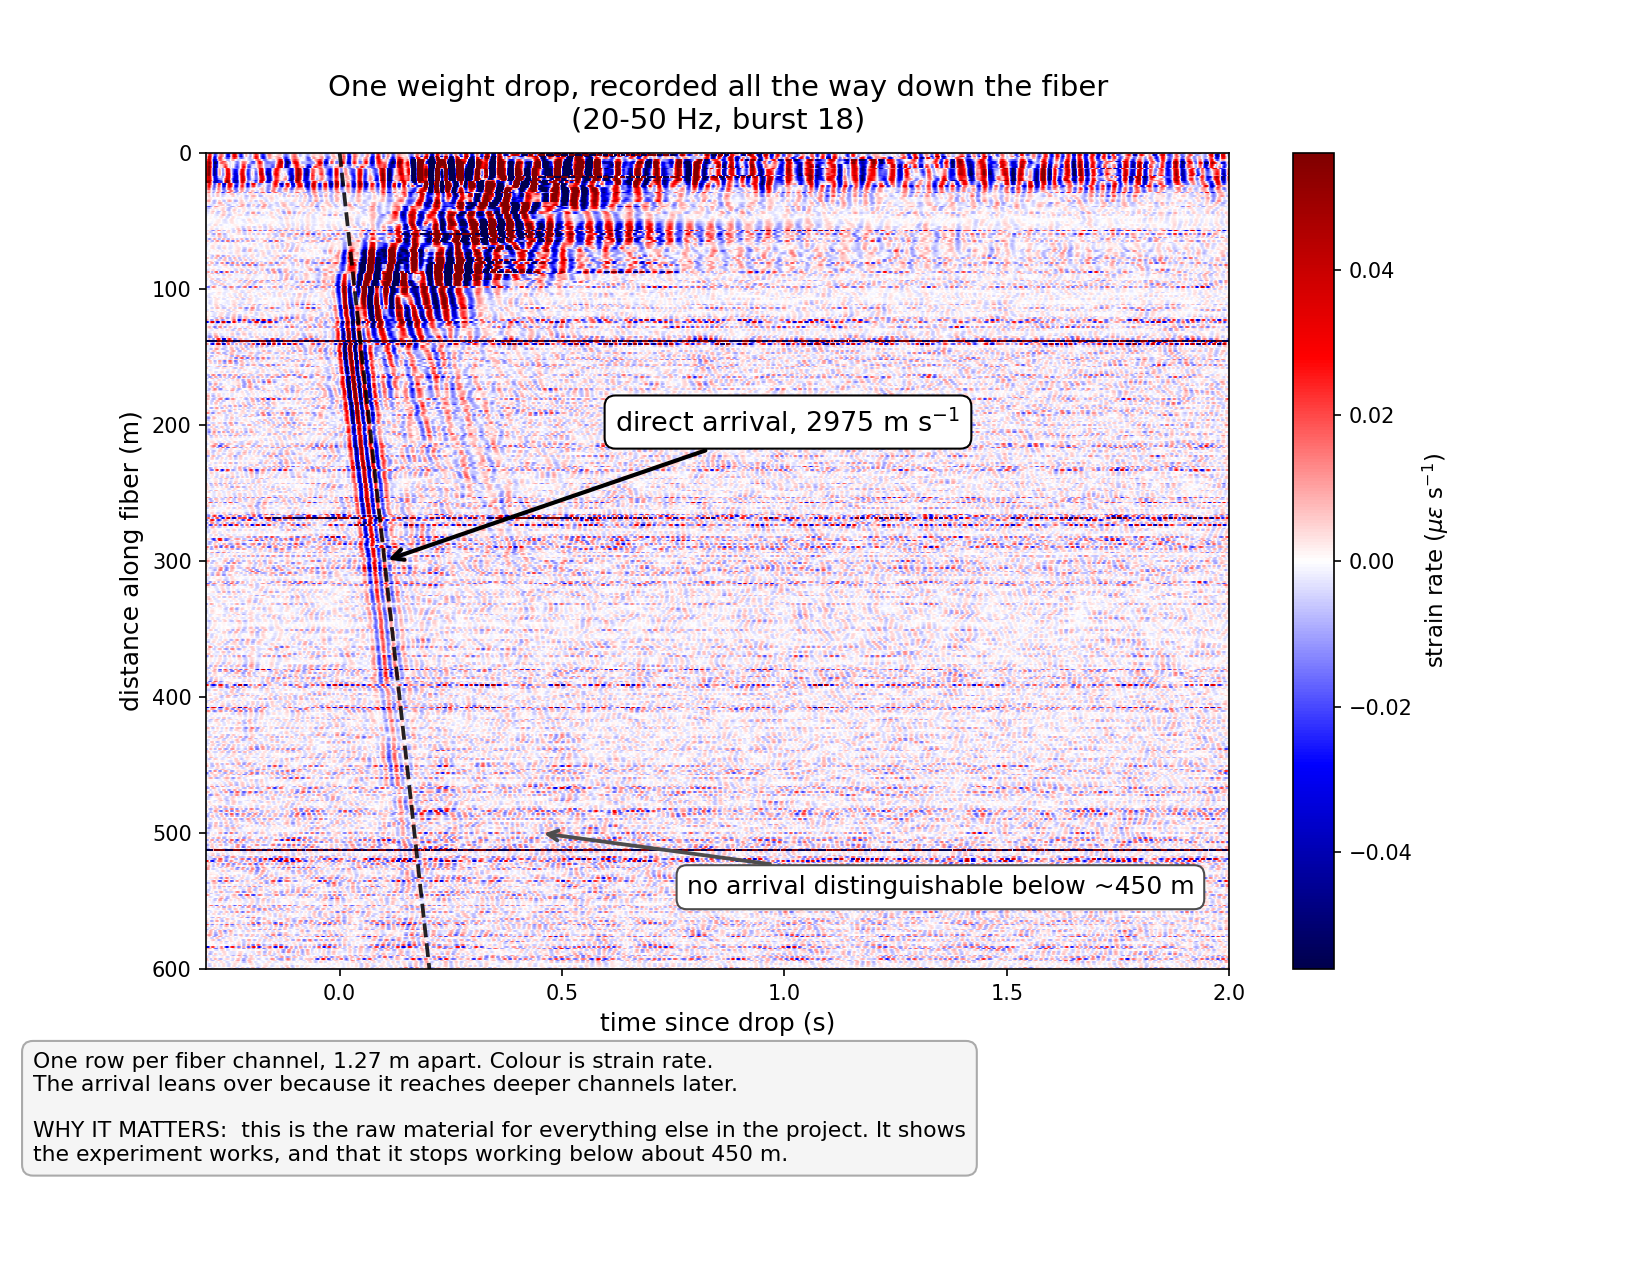
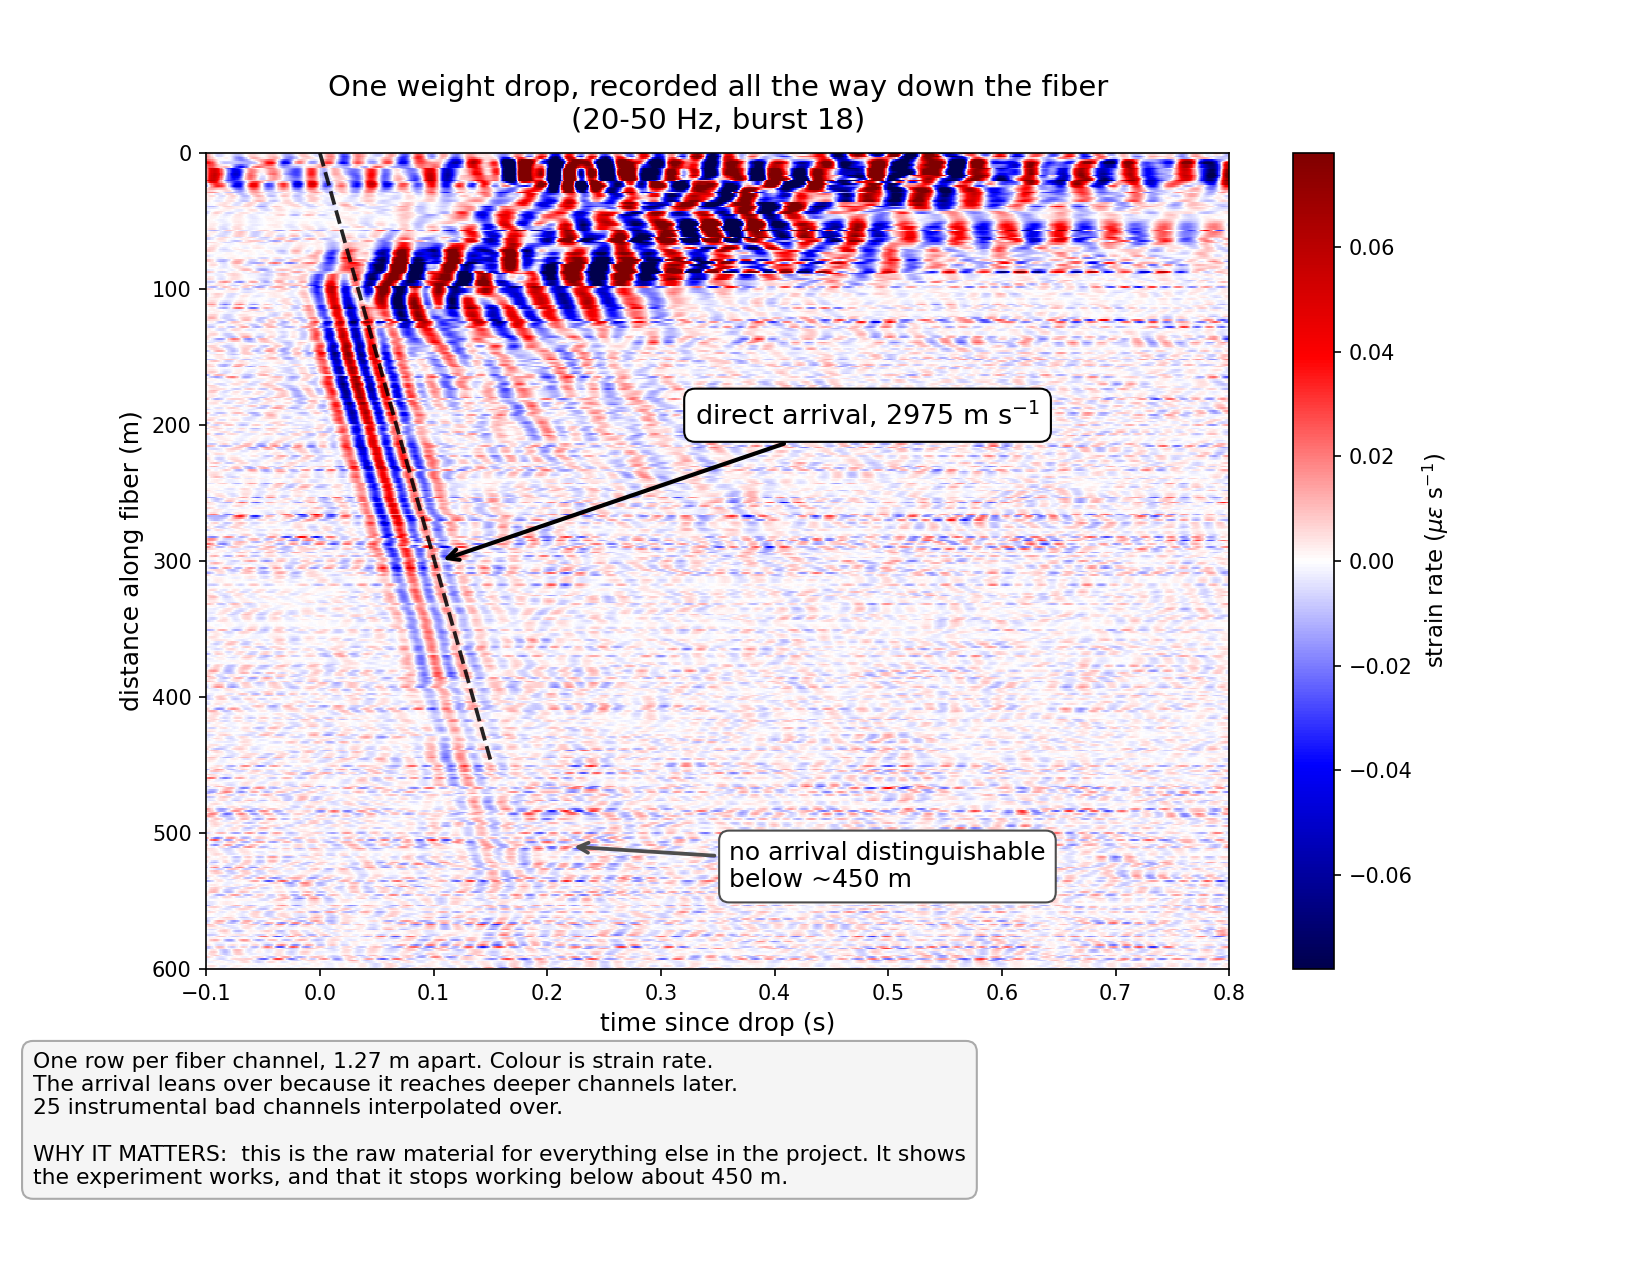
Fix a false claim on look02, and make the sections legible
look02 was titled 'the arrival is invisible' while the arrival is plainly
visible in the top ~100 m of its own panel. Retitled to what the figure
actually shows: unfiltered the arrival survives to ~100 m, at 20-50 Hz it
reaches ~450 m. That is a better point anyway - filtering is what buys the
aperture, roughly four times the usable range.

Three legibility fixes on the record sections:
- the ~25 instrumental bad channels drew horizontal stripes across the whole
  panel and were the first thing the eye landed on; interpolated over, and
  the count stated on the figure
- time axis cropped from 0-2.0 s to -0.1-0.8 s; more than half the old panel
  was empty noise
- colour clip raised from the 99th to the 99.7th percentile so ambient noise
  stays pale instead of filling the frame

Also stopped the moveout guide line at 450 m rather than running it through
the region the annotation calls empty, and moved that annotation inside the
axes.

diff --git a/notebooks/awd_clean/look.py b/notebooks/awd_clean/look.py
@@ -47,6 +47,25 @@ NOTE = dict(fontsize=10.5, va="top", ha="left",
             bbox=dict(boxstyle="round,pad=0.5", fc="#f5f5f5", ec="#aaaaaa"))
 
 
+def despike_channels(sec, factor=3.0, half=40):
+    """Replace channels whose RMS is far above their neighbours' by interpolation.
+
+    fig11_bad_channels.py identified these as optical artifacts narrower than the
+    16.5 m gauge length, so they cannot be ground motion. Left in, they draw
+    horizontal stripes across the whole record and are the first thing the eye
+    lands on. Replaced by the mean of the nearest clean channels either side."""
+    rms = np.sqrt(np.mean(np.asarray(sec, float) ** 2, axis=1))
+    base = np.array([np.median(rms[max(0, i - half):i + half + 1])
+                     for i in range(rms.size)])
+    bad = rms > factor * base
+    out = np.array(sec, dtype=float, copy=True)
+    good = np.flatnonzero(~bad)
+    for i in np.flatnonzero(bad):
+        nb = good[np.argsort(np.abs(good - i))[:2]]
+        out[i] = out[nb].mean(axis=0)
+    return out, int(bad.sum())
+
+
 def note(fig, what, why):
     """Two short lines under the panel: what it is, then why it matters.
 
@@ -57,30 +76,36 @@ def note(fig, what, why):
 
 
 def draw_section(sec, fs, band, title, fname, what, why, annotate=False):
+    sec, n_bad = despike_channels(sec)
     fig, ax = plt.subplots(figsize=FIGSIZE)
     t = np.arange(sec.shape[1]) / fs - PRE_S
     z = np.arange(sec.shape[0]) * DX_NANO
-    v = np.percentile(np.abs(sec), 99.0)
-    im = ax.pcolormesh(t, z, sec, cmap="seismic", vmin=-v, vmax=v, shading="auto")
+    v = np.percentile(np.abs(sec), 99.7)   # only the strongest 0.3% saturates,
+    im = ax.pcolormesh(t, z, sec, cmap="seismic",   # so ambient noise stays pale
+                       vmin=-v, vmax=v, shading="auto")
     ax.set_ylim(600, 0)
-    ax.set_xlim(-0.3, 2.0)
+    ax.set_xlim(-0.1, 0.8)                 # the arrival lives here; 0.8-2.0 s was
+                                           # half the panel and all of it noise
     ax.set_xlabel("time since drop (s)", fontsize=12)
     ax.set_ylabel("distance along fiber (m)", fontsize=12)
     ax.set_title(title, fontsize=14, pad=12)
     cb = plt.colorbar(im, ax=ax)
     cb.set_label(r"strain rate ($\mu\varepsilon$ s$^{-1}$)", fontsize=11)
     if annotate:
-        zz = np.linspace(0, 600, 50)
+        # stop the guide line where the arrival is still traceable, so it does
+        # not run through the region the annotation calls empty
+        zz = np.linspace(0, 450, 50)
         ax.plot(zz / V_DIRECT, zz, "k--", lw=1.8, alpha=0.85)
         ax.annotate(f"direct arrival, {V_DIRECT:.0f} m s$^{{-1}}$",
-                    xy=(0.10, 300), xytext=(0.62, 205), fontsize=13,
+                    xy=(0.105, 300), xytext=(0.33, 200), fontsize=13,
                     arrowprops=dict(arrowstyle="->", lw=2, color="k"),
                     bbox=dict(boxstyle="round,pad=0.4", fc="white", ec="k"))
-        ax.annotate("no arrival distinguishable below ~450 m",
-                    xy=(0.45, 500), xytext=(0.78, 545), fontsize=12,
+        ax.annotate("no arrival distinguishable\nbelow ~450 m",
+                    xy=(0.22, 510), xytext=(0.36, 540), fontsize=12,
+                    ha="left", annotation_clip=True,
                     arrowprops=dict(arrowstyle="->", lw=1.8, color="0.3"),
                     bbox=dict(boxstyle="round,pad=0.4", fc="white", ec="0.3"))
-    note(fig, what, why)
+    note(fig, what + f"\n{n_bad} instrumental bad channels interpolated over.", why)
     fig.savefig(OUT_DIR / fname, dpi=150)
     plt.close(fig)
 
@@ -216,13 +241,14 @@ def main():
                  annotate=True)
 
     draw_section(sec, fs, None,
-                 f"The same drop with no filter: the arrival is invisible\n"
+                 "The same drop unfiltered: the arrival survives only to ~100 m\n"
                  f"(burst {burst_id})",
                  "look02_section_unfiltered.png",
-                 "Identical data, no bandpass applied. Compare with the previous\n"
-                 "figure, which is this same drop filtered to 20-50 Hz.",
-                 "filtering is not cosmetic here. Without it there is no visible signal\n"
-                 "at all, so every result depends on having picked the right band.")
+                 "Identical data, no bandpass. Compare with the previous figure, which\n"
+                 "is this same drop filtered to 20-50 Hz.",
+                 "filtering is what buys the aperture. Unfiltered the arrival is clear\n"
+                 "in the top ~100 m and lost below it; at 20-50 Hz it is traceable to\n"
+                 "~450 m. Same data, four times the usable range.")
 
     draw_traces(sec, fs, "look03_traces.png")
 
